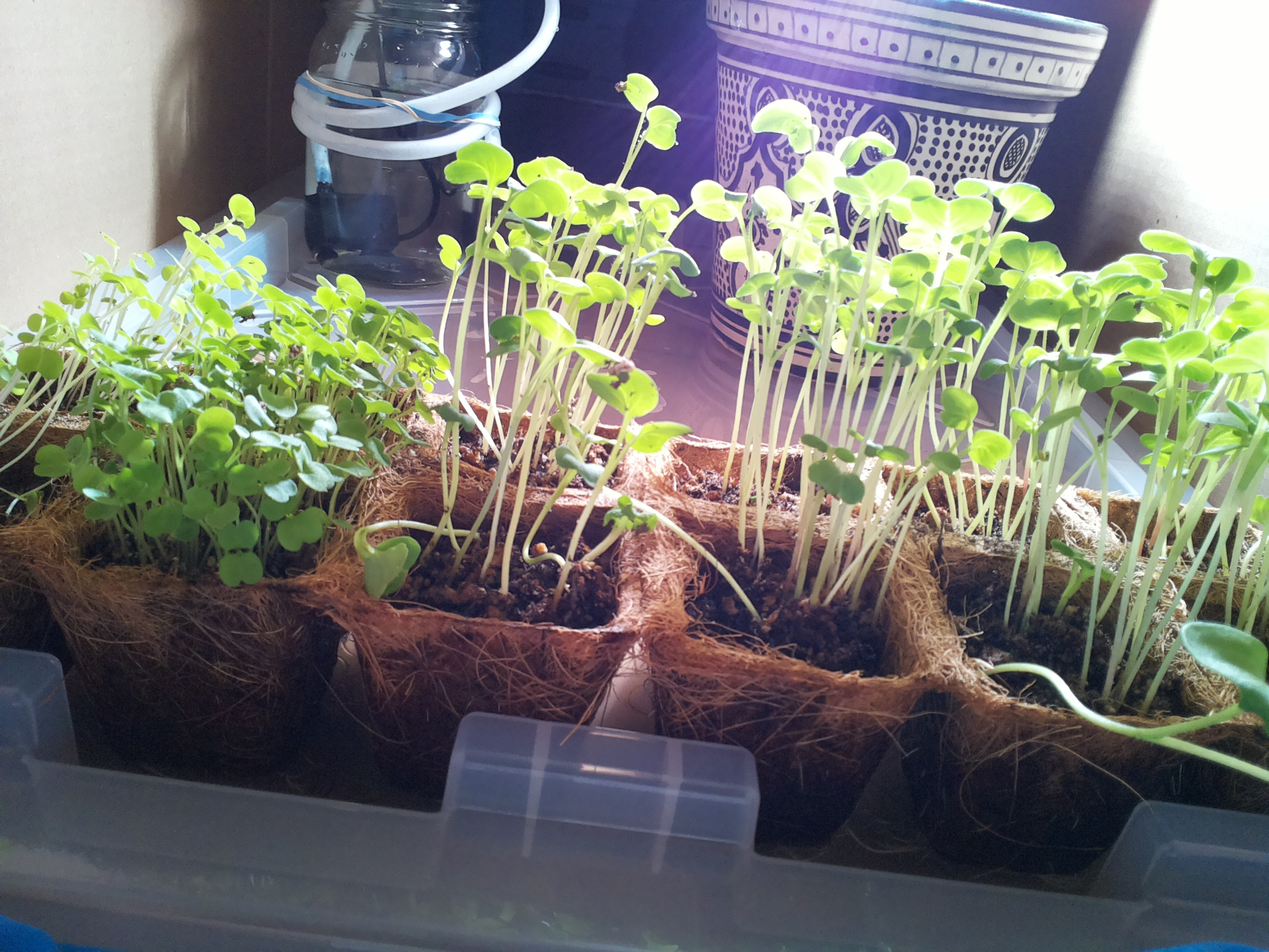
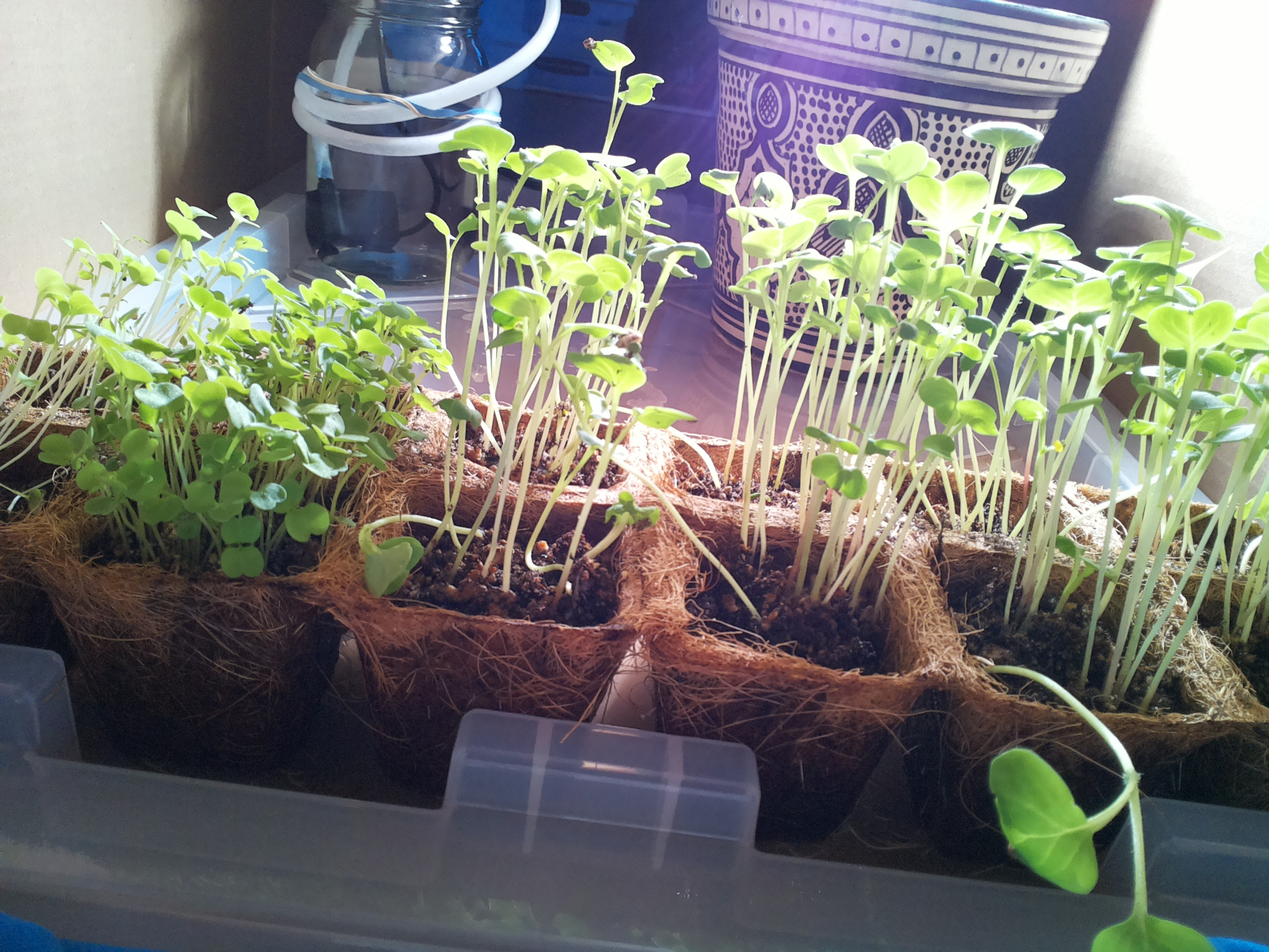
mirror sync 2026-09-02 07:20

diff --git a/JOURNAL.md b/JOURNAL.md
@@ -194,3 +194,11 @@
 - Photo: seedlings vigorous in all 12 cells (day 8) — tall, leggy, cotyledons broad and green, true leaves developing; no wilting despite ~4 days dry. No mold/pests/tipping. Tube in place over the lid.
 - Soil: mixed — dark patches plus drier crumbly spots, coir walls very pale after the long dry-down; the pulse should begin rewetting via bottom-feed. Expect to pulse again at 07:12 unless surfaces look dark.
 - Lamp: on — correct for photoperiod.
+
+### 2026-09-02 07:12 — morning check-in (cron)
+- Photo: seedlings vigorous in all 12 cells (day 9) — tall, leggy, cotyledons broad and green, true leaves developing; no wilting, mold, pests, or tipping. Tube in place over the lid.
+- Jar: zoomed photo shows dark water still high in the glass — last night's refill held overnight, siphon losses negligible. Pump body well covered.
+- Soil: mixed — dark damp patches plus drier crumbly spots with perlite showing; coir walls still pale from the 4-day dry-down. Rewetting continues.
+- Lamp: on — correct for photoperiod.
+- Watering: 4s pulse per standing order 2 (4s of 60s daily cap used; water.py OK, pump plug verified OFF after). Jar level held post-pulse.
+- No changes to standing orders. Next: 13:07 observe-only; 19:22 pulse unless surfaces look dark.
